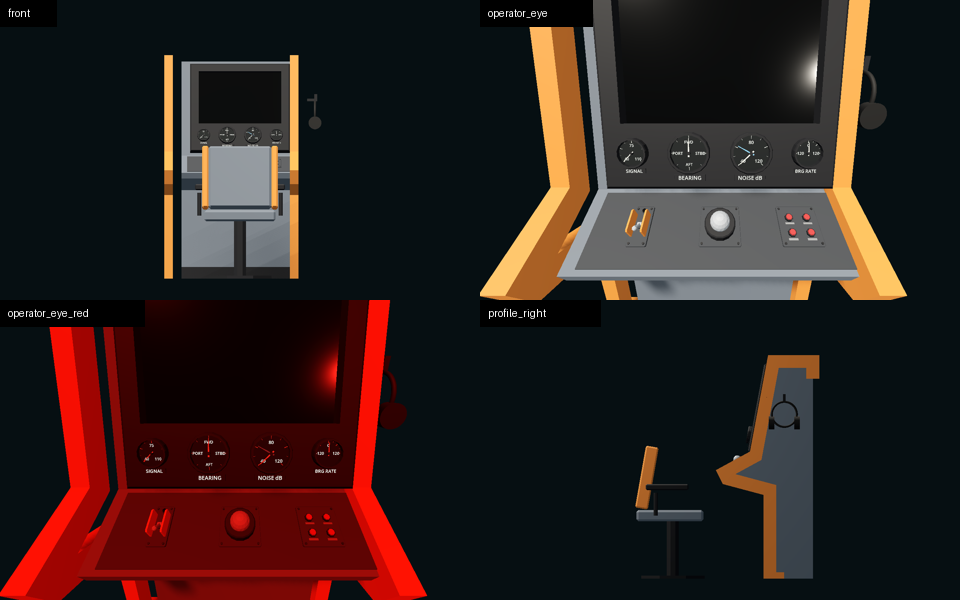
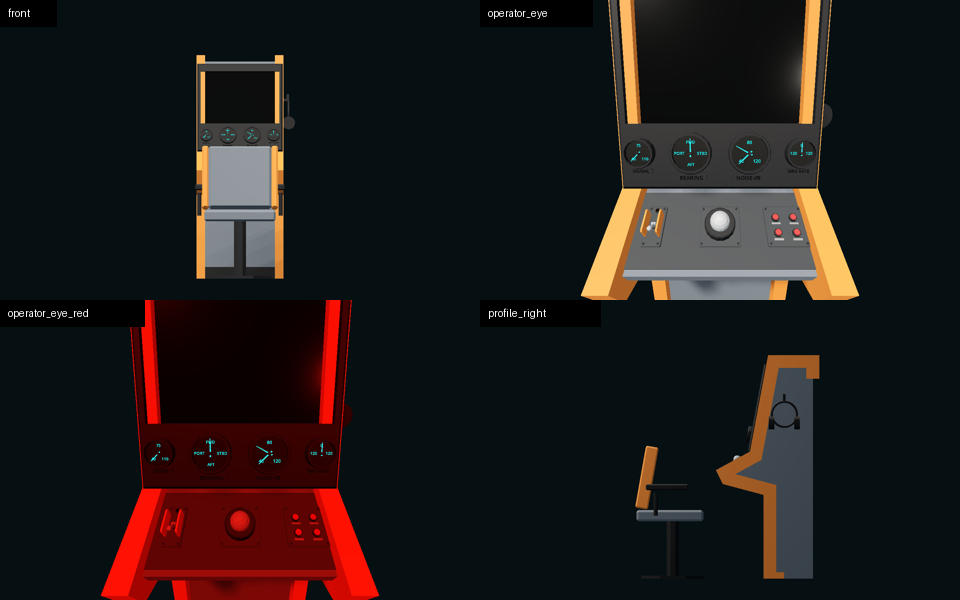
M12.18 · Narrow the sonar console to fit the program's sonar desk
Narrows the generated sonar console to the program's 0.65 m sonar desk; adds a width expect() and footprint_m to the brief.

Closes #416

diff --git a/tools/cadkit/scenes/sonar_console.py b/tools/cadkit/scenes/sonar_console.py
@@ -15,13 +15,15 @@ from cadkit.tscn import NodePath, SName, Scene, Xform
 
 SLUG, GROUP = "sonar_console", "stations"
 USES: list[str] = ["gauge", "guarded_toggle", "trackball", "map_keypad", "operator_seat"]
-W = 820.0                                     # console width (X), mm
+W = 600.0                                     # console body width (X), mm
+MAX_W = 650.0                                 # the program's sonar desk is 0.65 m across (brief constraint)
+FRAME_PROUD, HOOK_OUT = 5.0, 40.0             # the frame stands this far proud of the body side; the hook this far out of the frame
 # Side profile (y up, z out from the hull), mm, anticlockwise from the back foot.
 STRIP_FRONT, STRIP_BACK = (740.0, 620.0), (860.0, 400.0)
 FACE_TOP = (1520.0, 276.0)
 PROFILE = [(0.0, 0.0), (0.0, 300.0), (620.0, 300.0), (700.0, 600.0), STRIP_FRONT, STRIP_BACK, FACE_TOP, (FACE_TOP[0], 0.0)]
-BEZEL_W, BEZEL_H, BEZEL_D, BEZEL_S = 700.0, 625.0, 60.0, 332.5     # BEZEL_S: centre, mm up the screen face
-OPEN_W, OPEN_H, GLASS_T = 580.0, 370.0, 20.0
+BEZEL_W, BEZEL_H, BEZEL_D, BEZEL_S = 600.0, 625.0, 60.0, 332.5     # BEZEL_S: centre, mm up the screen face
+OPEN_W, OPEN_H, GLASS_T = 550.0, 370.0, 20.0
 DIAL_BAND = 200.0                             # the bezel's bottom border, which carries the dials (round 1 review)
 OPEN_S = BEZEL_S - BEZEL_H / 2 + DIAL_BAND + OPEN_H / 2     # centre of the screen opening, mm up the face
 DIAL_S = BEZEL_S - BEZEL_H / 2 + 115.0
@@ -32,16 +34,16 @@ SEAT_Z = 980.0
 EYE_H = 1200.0
 
 # Layout on the control strip: x (mm, right of centre) and s (mm up the slope from the strip's middle).
-STRIP_LAYOUT = {"ActiveSonar": ("guarded_toggle", -230.0, 0.0, "active sonar"),
+STRIP_LAYOUT = {"ActiveSonar": ("guarded_toggle", -190.0, 0.0, "active sonar"),
                 "Trackball": ("trackball", 0.0, 0.0, "hydrophone trackball"),
-                "MapKeys": ("map_keypad", 230.0, 0.0, None)}
+                "MapKeys": ("map_keypad", 190.0, 0.0, None)}
 # Dials on the header: x (mm), radius (m), and the Gauge settings (from the game's sonar station).
 DIALS = {
-    "SignalGauge": (-255.0, 0.04, {"readout": "signal", "title": "SIGNAL", "min_value": 40.0, "max_value": 110.0}),
-    "BearingGauge": (-90.0, 0.055, {"readout": "bearing", "title": "BEARING", "max_value": 360.0, "wraps": True,
+    "SignalGauge": (-235.0, 0.04, {"readout": "signal", "title": "SIGNAL", "min_value": 40.0, "max_value": 110.0}),
+    "BearingGauge": (-85.0, 0.055, {"readout": "bearing", "title": "BEARING", "max_value": 360.0, "wraps": True,
                                    "wrap_labels": ["FWD", "STBD", "AFT", "PORT"]}),
-    "NoiseGauge": (90.0, 0.055, None),
-    "BearingRateGauge": (255.0, 0.04, {"readout": "bearing_rate", "title": "BRG RATE", "min_value": -120.0,
+    "NoiseGauge": (85.0, 0.055, None),
+    "BearingRateGauge": (235.0, 0.04, {"readout": "bearing_rate", "title": "BRG RATE", "min_value": -120.0,
                                         "max_value": 120.0, "sweep_deg": 180.0}),
 }
 
@@ -92,24 +94,29 @@ def solids() -> list[Solid]:
     # Keep the front edge and the top: a structural member, not an outline (round 1 review).
     ring = ring - bd.Box(FRAME_T * 4, FACE_TOP[0] - 120 + 100, 300, align=(bd.Align.CENTER, bd.Align.MIN, bd.Align.CENTER)).moved(
         bd.Location((0, -100, 50)))
-    inset = on_strip(box(W - 80, STRIP_LEN - 30, STRIP_INSET_T))
-    frames = [at(ring, x=W / 2), at(ring, x=-W / 2 - FRAME_T)]
+    inset = on_strip(box(W - 60, STRIP_LEN - 30, STRIP_INSET_T))
+    # Set into the body's width: each band overlaps the body side and stands FRAME_PROUD proud of it.
+    frames = [at(ring, x=W / 2 + FRAME_PROUD), at(ring, x=-W / 2 - FRAME_PROUD + FRAME_T)]
     kick = at(box(W, 80, 8), y=40, z=300)
-    hook_x = W / 2 + FRAME_T
-    hook = at(bd.Box(70, 20, 20, align=(bd.Align.MIN, bd.Align.CENTER, bd.Align.CENTER)), hook_x, 1250, 200)
-    hook_lip = at(bd.Box(20, 40, 20, align=(bd.Align.MIN, bd.Align.MIN, bd.Align.CENTER)), hook_x + 50, 1250, 200)
+    hook_x = W / 2 + FRAME_PROUD
+    hook = at(bd.Box(HOOK_OUT, 20, 20, align=(bd.Align.MIN, bd.Align.CENTER, bd.Align.CENTER)), hook_x, 1250, 200)
+    hook_lip = at(bd.Box(20, 40, 20, align=(bd.Align.MIN, bd.Align.MIN, bd.Align.CENTER)), hook_x + HOOK_OUT - 20, 1250, 200)
     out = ([Solid(body, "interior_panel"), Solid(on_face(bezel, BEZEL_S), "trim_black"), Solid(on_face(glass, OPEN_S), "screen_off"),
             Solid(inset, "interior_dark"), Solid(kick, "trim_black"), Solid(hook + hook_lip, "trim_black")]
            + [Solid(f, "control_interface") for f in frames])
-    _check(body, frames)
+    _check(body, frames, hook + hook_lip)
     return out
 
 
-def _check(body: bd.Part, frames: list[bd.Part]) -> None:
+def _check(body: bd.Part, frames: list[bd.Part], hook: bd.Part) -> None:
     """Checks against the brief and the catalogue entries of everything placed on the console."""
     expect(abs(body.bounding_box().min.Y) < 0.01, "console stands on the floor")
     for f in frames:
         expect(f.bounding_box().min.Y > -0.01, "side frames do not go below the floor")
+    parts = [body, hook, *frames]
+    lo, hi = min(p.bounding_box().min.X for p in parts), max(p.bounding_box().max.X for p in parts)
+    expect(hi - lo <= MAX_W + 0.01, f"console overall width at most {MAX_W:.0f} mm (program's sonar desk), body, frame and hook ({hi - lo:.1f})")
+    expect(BEZEL_W <= W, "bezel within the body's width")
     expect(BEZEL_S - BEZEL_H / 2 > 0 and BEZEL_S + BEZEL_H / 2 <= FACE_LEN, "bezel on the screen face")
     expect(OPEN_S + OPEN_H / 2 <= BEZEL_S + BEZEL_H / 2 - 40, "a bezel border above the screen")
     ext = entry("gauge")["extent_radii"]             # the gauge's own envelope, from its catalogue entry
@@ -193,7 +200,7 @@ def build() -> dict:
            props={"transform": Xform(origin=(0, 0, SEAT_Z / 1000)), "headset": NodePath("../Headset"),
                   "sit_point": NodePath("Model/SitPoint"), "eye_height": EYE_H / 1000, "label": "sonar seat"})
     s.node("Model", parent="Seat", instance=scene_path("operator_seat"))
-    hook_tip = np.array([W / 2 + FRAME_T + 55, 1250 - 20, 200]) / 1000
+    hook_tip = np.array([W / 2 + FRAME_PROUD + HOOK_OUT - 5, 1250 - 20, 200]) / 1000
     s.node("Headset", instance="res://src/sonar/headset.tscn",
            props={"transform": Xform.frame((0, 0, -1), (0, 1, 0), (1, 0, 0), tuple(hook_tip - np.array([0, 0.08, 0])))})
     s.write(d / f"{SLUG}.tscn")
@@ -208,7 +215,7 @@ def build() -> dict:
         "tags": ["station", "sonar", "console", "desk"],
         "scene": res(d / f"{SLUG}.tscn"),
         "behaviour": {"script": "SonarStation", "wire": {"wheel": "Controls/Trackball", "headset": "Headset"}},
-        "footprint_mm": [W + 2 * FRAME_T, SEAT_Z + 300],
+        "footprint_mm": [W + 2 * FRAME_PROUD + HOOK_OUT, SEAT_Z + 300],
         "mount": "floor at Y=0, back against the hull on Z=0, operator at +Z facing -Z",
         "uses": [v[0] for v in STRIP_LAYOUT.values()] + ["operator_seat", "gauge", "noise_gauge", "flat_chart", "headset"],
         "triangles": tris,
